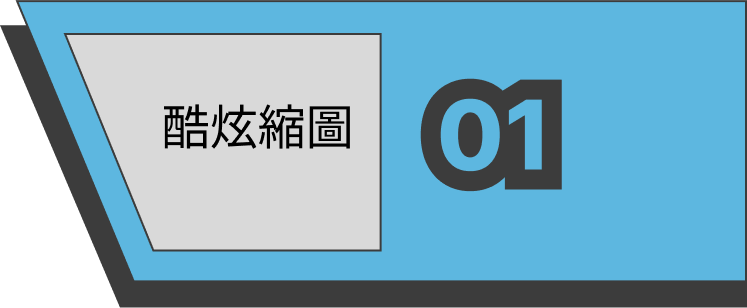
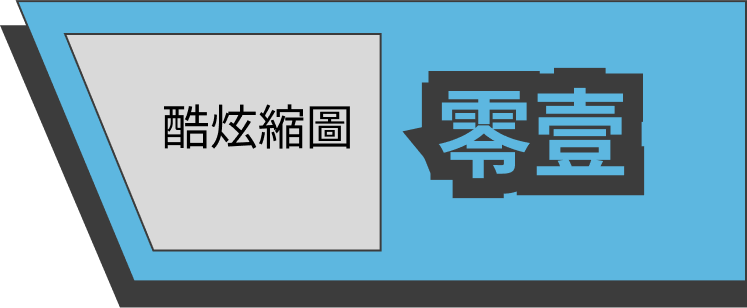
updated page for 01, karlos, skye and jkiol

Changed region(s): [[0.5234, 0.2045, 0.8621, 0.6429], [0.5542, 0.5552, 0.585, 0.5844]]

diff --git a/心結廚房 - 廚師介紹.html b/心結廚房 - 廚師介紹.html
@@ -24,6 +24,24 @@
           elementsDisplay.forEach((el) => {
             el.style.display = 'block';
           });
+
+          charButtons.forEach((btn) => {
+            const btnID = btn.id.replace('Btn', '');
+            const btnImg = btn.querySelector('img');
+            if (btnImg) {
+              btnImg.src = `${btnID}-default.png`; // Change to the default image
+            }
+            btn.classList.remove('charSelected');
+            btn.classList.add('charSelect');
+          });
+
+          const buttonImg = button.querySelector('img');
+          if (buttonImg) {
+            buttonImg.src = `${displayID}-chosen.png`;
+          }
+          console.log(displayID);
+          button.classList.remove('charSelect');
+          button.classList.add('charSelected');
         });
       });
     });
@@ -94,13 +112,43 @@
     <img class="charBanner" id="zeroOne" src="zeroOne-banner.png">
     <div class="textBlock" id="zeroOne">
       <p>
-        現居台灣的普通打工人，身體素質絕佳的年輕男子，年紀輕輕卻有著阿公的靈魂。泡麵的大學室友，輾轉加入了 ‘心結廚房’ ，作為一名DM及實況主活躍在其中。
+        （謎之聲：為了讓自己看起來不像是個突兀的錯誤代碼，所以本人希望用正體，但是還是可以叫他01。）現居台灣的普通打工人，身體素質絕佳的年輕男子，年紀輕輕卻有著阿公的靈魂。泡麵的大學室友，輾轉加入了 ‘心結廚房’ ，作為一名DM及實況主活躍在其中。
       </p>
       <p>
         踐行 ‘開拓’ 之道，樂於與不同的人建立關係。全廚房生活習慣最為健康的成員，在團體中擔任正能量大使，為大家在心結生活中帶來多一點人情味。
       </p>
       <p>
         “已經沒關係了，因為我來了！這發心結我來扛！！”
+      </p>
+    </div>
+
+    <img class="charBanner" id="karlos" src="karlos-banner.png">
+    <div class="textBlock" id="karlos">
+      <p>
+        號外！廚房居然出現了傳說中的黑衣劍士？！左手的刀用來斬生肉，右手的刀用來處理熟肉...正是廚師之一的卡卡，颯爽登場！人生格言正是 ‘快一點，再快一點’ 的衝動型玩家，可想而知能為廚房帶來不一樣的火花跟歡樂。
+      </p>
+      <p>
+        自詡廚房中的為大家帶來歡樂的低能兒，卻比任何人都要努力的熱血騷年，目前在TRPG及RP區塊中相當活躍，也是一名老練的魔物獵人。
+      </p>
+    </div>
+
+    <img class="charBanner" id="skye" src="skye-banner.png">
+    <div class="textBlock" id="skye">
+      <p>
+        “什麼？這個專案要今天趕完？” “蛤？廚房又有心結又有人受傷需要聊聊了喔？” “怎了，又有好看的RP劇情想要我漫畫化嗎？”
+      </p>
+      <p>
+        做委託不問價錢，挖坑沒有半點猶豫的自由傭兵，沒有她做不到的，只要她想不到要做的！沒有人知道斯凱的技能點到底從何而來，不過這恐怕與她作為世界線穿越者的身份有關。
+      </p>
+      <p>
+        活躍於廚房RP及角色創作區塊，將創作視為對平行世界的觀察，喜歡記錄角色一舉一動、心理狀況的世界記錄員。不常在實況出現，卻總會告訴大家自己又收了哪款老遊戲的模擬器改版。
+      </p>
+    </div>
+
+    <img class="charBanner" id="jkiol" src="jkiol-banner.png">
+    <div class="textBlock" id="jkiol">
+      <p>
+        
       </p>
     </div>
   </div>
@@ -110,15 +158,22 @@
   <img class="charClipArt" id="dobird" src="deafultClipArt.png">
   <img class="charClipArt" id="honey" src="deafultClipArt.png">
   <img class="charClipArt" id="zeroOne" src="deafultClipArt.png">
+  <img class="charClipArt" id="karlos" src="deafultClipArt.png">
+  <img class="charClipArt" id="skye" src="deafultClipArt.png">
+  <img class="charClipArt" id="jkiol" src="deafultClipArt.png">
 
   <div class="otherChar">
     <img class="aboutUsMore" src="aboutUsMore.png">
     <div class="charMenu">
-      <img class="charSelect" id='MaInNoBtn' src="MaInNo-default.png" onclick="">
-      <img class="charSelect" id='grassBtn' src="grass-default.png" onclick="">
-      <img class="charSelect" id='dobirdBtn' src="bird-default.png" onclick="">
-      <img class="charSelect" id='honeyBtn' src="honey-default.png" onclick="">
-      <img class="charSelect" id='zeroOneBtn' src="zeroOne-default.png" onclick="">
+      <img class="charSelect" id='MaInNoBtn' src="MaInNo-default.png">
+      <img class="charSelect" id='grassBtn' src="grass-default.png">
+      <img class="charSelect" id='dobirdBtn' src="bird-default.png">
+      <img class="charSelect" id='honeyBtn' src="honey-default.png">
+      <img class="charSelect" id='zeroOneBtn' src="zeroOne-default.png">
+      <img class="charSelect" id='karlosBtn' src="zeroOne-default.png">
+      <img class="charSelect" id='skyeBtn' src="zeroOne-default.png">
+      <img class="charSelect" id='jkiolBtn' src="zeroOne-default.png">
+      
     </div>
    
   </div>

diff --git a/styles.css b/styles.css
@@ -317,7 +317,7 @@
         
         .otherChar {
             max-width: 25%;
-            height: 80%;
+            height: 100%;
             margin: 3% 0 0 0;
             float: right;
         }
@@ -345,9 +345,10 @@
         
 
         .charSelected {
-            max-width: 100%;
+            max-width: 90%;
             height: auto;
             margin: 0 0 3% 0;
+            float: right;
         }
 
         .charSelect {
